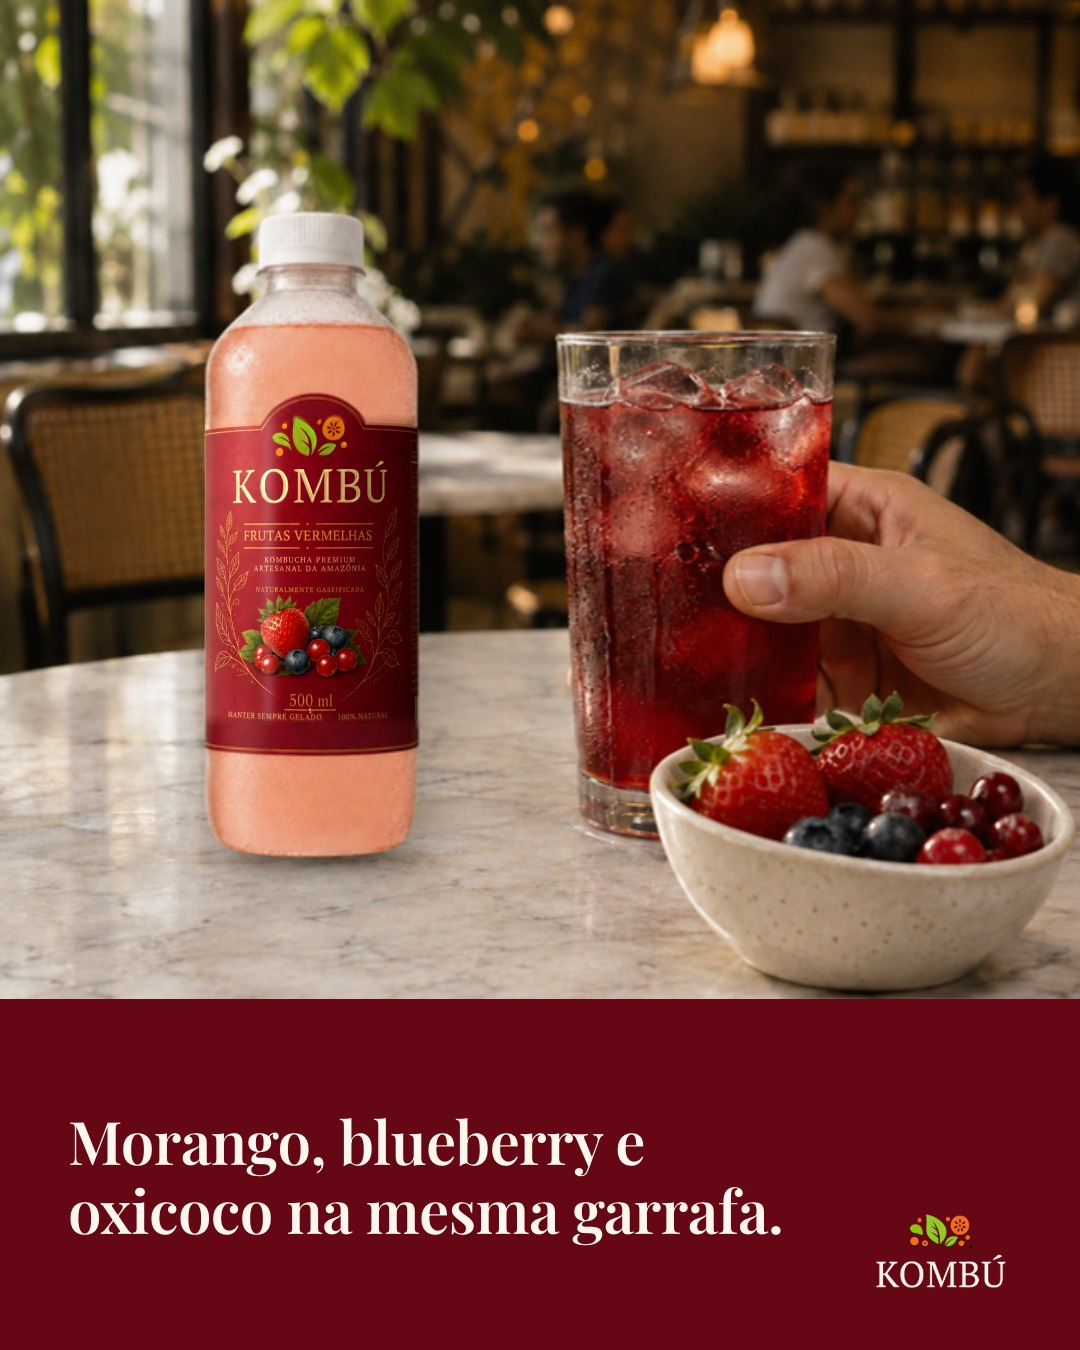
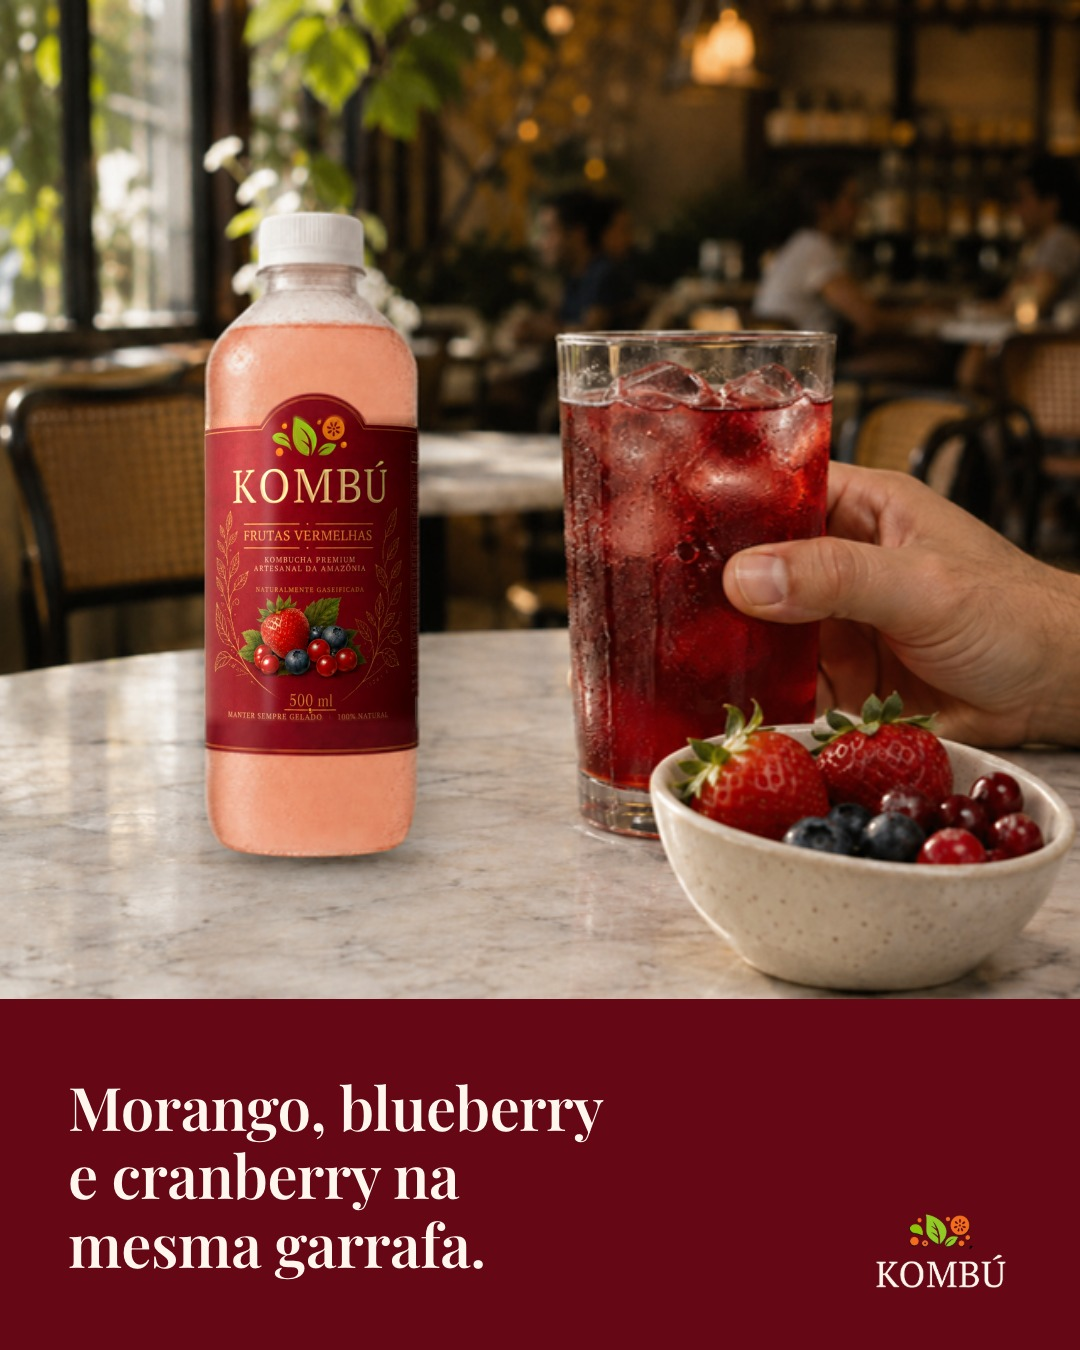
Say cranberry instead of oxicoco on the site and in the Instagram queue
Owner request (03/11). Post 05 art and caption re-rendered and redeployed;
flavour copy on the storefront and the reseller page updated.

Changed region(s): [[0.0611, 0.8089, 0.7333, 0.9644]]

diff --git a/assets/site.js b/assets/site.js
@@ -26,7 +26,7 @@
   // for each of these, and add new flavours of its own.
   const FLAVORS = [
     { slug: "maracuja", name: "Maracujá", imageKey: "maracuja", profile: "Frutados", ingredients: ["Maracujá"], angle: "Tropical, ácida e refrescante.", description: "Polpa de maracujá de verdade, com as sementes." },
-    { slug: "frutas-vermelhas", name: "Frutas Vermelhas", imageKey: "frutasVermelhas", profile: "Frutados", ingredients: ["Morango", "blueberry", "oxicoco"], angle: "Frutada, vibrante e equilibrada.", description: "Morango, blueberry e oxicoco num perfil frutado e levemente ácido." },
+    { slug: "frutas-vermelhas", name: "Frutas Vermelhas", imageKey: "frutasVermelhas", profile: "Frutados", ingredients: ["Morango", "blueberry", "cranberry"], angle: "Frutada, vibrante e equilibrada.", description: "Morango, blueberry e cranberry num perfil frutado e levemente ácido." },
     { slug: "hibisco-anis-estrelado", name: "Hibisco & Anis Estrelado", imageKey: "hibisco", profile: "Florais", ingredients: ["Hibisco", "anis estrelado"], angle: "Floral, acidulada e aromática.", description: "O hibisco traz a cor e a acidez. O anis estrelado, o perfume." },
     { slug: "flor-fada-azul-blueberry", name: "Flor Fada Azul & Blueberry", imageKey: "mirtilo", profile: "Florais", ingredients: ["Flor fada azul", "blueberry"], angle: "Floral e frutada.", description: "A cor vem da flor e da fruta. Nenhum corante." },
     { slug: "maca-canela", name: "Maçã & Canela", imageKey: "macaCanela", profile: "Especiados", ingredients: ["Maçã", "canela em pau"], angle: "Aconchegante, frutada e especiada.", description: "Maçã e canela em pau em uma combinação frutada e especiada." },

diff --git a/assets/admin.js b/assets/admin.js
@@ -336,9 +336,9 @@ const CMS_FLAVOR_SEED = [
     recommended: FLAVOR_IMAGE_RECOMMENDED,
     imageUrl:
       "https://static.wixstatic.com/media/716adf_5c8cd66d9eb842a0940b212d250fd255~mv2.png/v1/fill/w_760,h_1368,al_c,q_92,usm_0.66_1.00_0.01,enc_auto/IMG_2897_PNG.png",
-    ingredients: "Morango, mirtilo, oxicoco",
+    ingredients: "Morango, blueberry, cranberry",
     angle: "Frutada, levemente ácida e vibrante.",
-    description: "Mistura morango, mirtilo e oxicoco em um perfil frutado e levemente ácido.",
+    description: "Mistura morango, blueberry e cranberry em um perfil frutado e levemente ácido.",
   },
   {
     slug: "hibisco-anis-estrelado",

diff --git a/revenda.html b/revenda.html
@@ -121,7 +121,7 @@
 </figure>
 <div>
 <h3>Frutas Vermelhas</h3>
-<p>Morango · blueberry · oxicoco</p>
+<p>Morango · blueberry · cranberry</p>
 </div>
 </article>
 <article class="trade-flavor">

diff --git a/marketing/instagram/claude-propostas/2026-11-03-direcao-criativa/FILA-NOVA.md b/marketing/instagram/claude-propostas/2026-11-03-direcao-criativa/FILA-NOVA.md
@@ -48,13 +48,13 @@ Nenhum sabor se repete dentro de seis posts seguidos, dois layouts iguais nunca 
 
 ## 05 · Frutas Vermelhas
 **Layout B embaixo** (faixa vinho #650715, título creme).
-**Na arte:** "Morango, blueberry e oxicoco na mesma garrafa."
+**Na arte:** "Morango, blueberry e cranberry na mesma garrafa."
 
-**Composição:** frontal, na altura de uma mesa de mármore claro de café, de manhã. Garrafa oficial à esquerda; à direita, copo com líquido rubi e gelo. Na frente, uma tigela pequena com morangos, blueberries e oxicocos frescos. Uma mão adulta entra pela direita pegando o copo.
+**Composição:** frontal, na altura de uma mesa de mármore claro de café, de manhã. Garrafa oficial à esquerda; à direita, copo com líquido rubi e gelo. Na frente, uma tigela pequena com morangos, blueberries e cranberries frescos. Uma mão adulta entra pela direita pegando o copo.
 
 **Legenda**
 ```
-Morango, blueberry e oxicoco na mesma garrafa, e é deles que vem a cor da bebida.
+Morango, blueberry e cranberry na mesma garrafa, e é deles que vem a cor da bebida.
 
 A Kombú Frutas Vermelhas é suave no gole e intensa no sabor, com a acidez leve das frutas e o gás natural da fermentação. Você sente mais o morango ou o blueberry? Conta pra gente nos comentários.
 
@@ -65,7 +65,7 @@ Prove gelada nos nossos parceiros e pergunte quais sabores estão gelados hoje.
 
 **Prompt**
 ```
-Fotografia frontal, câmera exatamente na altura do tampo de uma mesa redonda de mármore claro num café de Manaus, de manhã, lente 50 mm, perspectiva reta. No terço esquerdo, área livre e nítida do mármore onde depois será colocada uma garrafa em pé vista de frente. No centro-direita, um copo alto de vidro liso com líquido vermelho-rubi translúcido, gelo e condensação; a mão de uma pessoa adulta entra pela direita e segura o copo com naturalidade, sem levantá-lo. Em primeiro plano, uma tigela pequena de cerâmica clara com morangos frescos, blueberries e oxicocos (cranberries). Luz natural suave vinda de uma janela à esquerda. Fundo do café desfocado em tons quentes. Terço inferior com mármore limpo para texto.
+Fotografia frontal, câmera exatamente na altura do tampo de uma mesa redonda de mármore claro num café de Manaus, de manhã, lente 50 mm, perspectiva reta. No terço esquerdo, área livre e nítida do mármore onde depois será colocada uma garrafa em pé vista de frente. No centro-direita, um copo alto de vidro liso com líquido vermelho-rubi translúcido, gelo e condensação; a mão de uma pessoa adulta entra pela direita e segura o copo com naturalidade, sem levantá-lo. Em primeiro plano, uma tigela pequena de cerâmica clara com morangos frescos, blueberries e cranberries. Luz natural suave vinda de uma janela à esquerda. Fundo do café desfocado em tons quentes. Terço inferior com mármore limpo para texto.
 ```
 
 ---
